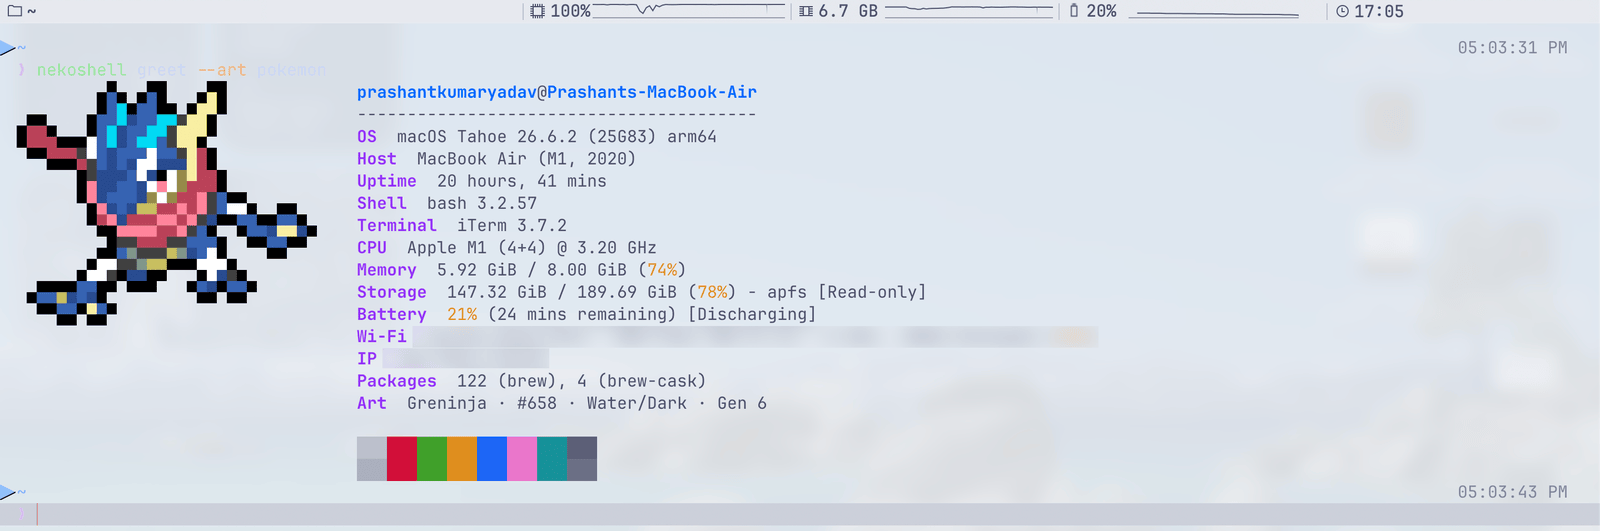
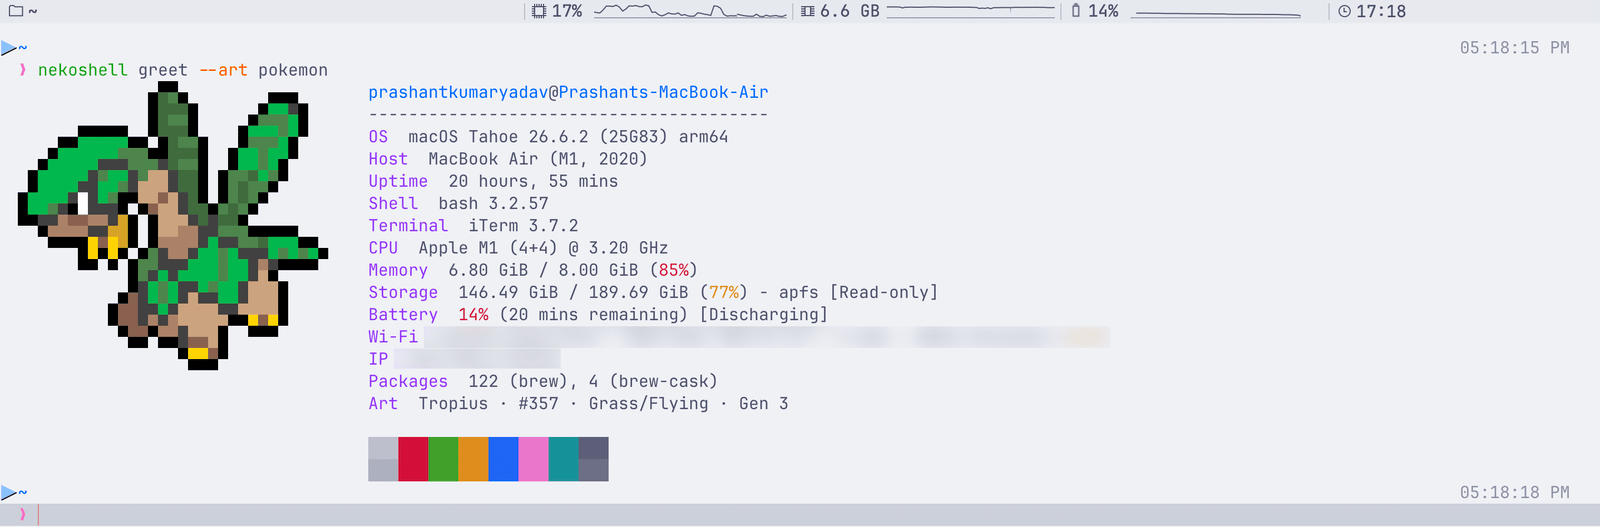
docs(screenshots): a cleaner latte capture of the pokemon greeting

diff --git a/site/src/components/Themes.tsx b/site/src/components/Themes.tsx
@@ -53,7 +53,7 @@ export function Themes() {
             alt={`The greeting with a Pok\u00e9mon sprite in ${flavour === 'latte' ? 'latte' : 'mocha'}`}
             loading="lazy"
             width={1600}
-            height={flavour === 'latte' ? 531 : 576}
+            height={flavour === 'latte' ? 527 : 576}
           />
         </figure>
         <p className="figure__cap">{flavour === 'latte' ? 'The same greeting after nekoshell theme latte: the light base, the darker accents, the swatch in the new colours.' : 'The greeting in mocha. Pick latte above to see the same window after nekoshell theme latte.'}</p>
